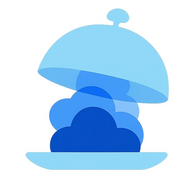
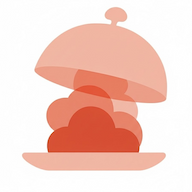
SEO: ロケール別OG画像対応とアイコン類の更新
- 日本語/英語でOG画像を切り替えるように修正
- default OG画像を廃止し、ja-JP / en-US を明示指定
- OG画像を jpg に統一
- 各種 favicon / app icon を差し替え
- Universal Links 対応パスに review を追加

diff --git a/app-expo/components/seo/index.web.tsx b/app-expo/components/seo/index.web.tsx
@@ -29,6 +29,10 @@ export function useLocaleFromRoute(): string {
 	return I18N_SUPPORTED_LOCALES.includes(maybe) ? maybe : DEFAULT_LOCALE;
 }
 
+export function isJapaneseLocale(locale: string) {
+	return locale === "ja" || locale.startsWith("ja-");
+}
+
 export function stripLocaleFromPath(path: string, locale: string) {
 	// '/ja/posts/123' -> '/posts/123'（先頭だけ）
 	return path.replace(new RegExp(`^/${locale}(?=/|$)`), "") || "/";
@@ -51,11 +55,12 @@ export type SeoProps = {
 export default function SeoHead(props: SeoProps) {
 	const pathname = usePathname() || "/";
 	const locale = useLocaleFromRoute();
+	const isJa = isJapaneseLocale(locale);
 	const pathNoLocale = stripLocaleFromPath(pathname, locale);
 
 	const title = props.title || i18n.t("Common.defaultTitle");
 	const desc = props.description || i18n.t("Common.defaultDesc");
-	const img = props.image || `${WEB_BASE_URL}/og/default.png`;
+	const img = props.image || `${WEB_BASE_URL}/og/${isJa ? "ja-JP" : "en-US"}.jpg`;
 	const imgAlt = props.imageAlt || title;
 	const canonical = buildCanonical(pathNoLocale, locale);
 

diff --git a/api/src/main.ts b/api/src/main.ts
@@ -5,8 +5,6 @@ import { env } from './core/config/env';
 import { ApiExceptionFilter } from './core/filters/api-exception.filter';
 import { ClsService } from 'nestjs-cls';
 import { AppLoggerService } from './core/logger/logger.service';
-import { NestExpressApplication } from '@nestjs/platform-express';
-import { join } from 'path';
 
 async function bootstrap() {
   const app = await NestFactory.create(AppModule);
